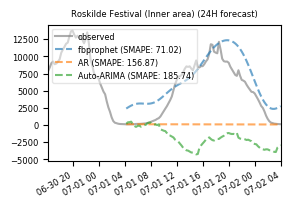
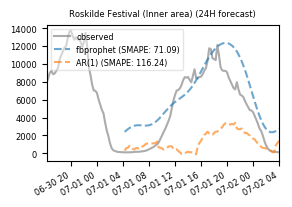
fix AR forecasting

diff --git a/ts-compare-methods.py b/ts-compare-methods.py
@@ -25,6 +25,7 @@ basepath = 'data/'
 
 hours_to_predict = 24
 slices_to_predict = hours_to_predict * 4
+global_freq = None
 
 
 def load_data(polygon):
@@ -32,23 +33,33 @@ def load_data(polygon):
     df_orig = pd.read_csv(basepath + filename_data, squeeze=True)
     # prep cols for Prophet
     df_orig = df_orig[df_orig.polygon_id == int(polygon)]
-    df_trimmed = df_orig.drop(['polygon_id'], axis=1)
-    df_trimmed.columns = ['y', 'ds']
+    df_fbprophet = df_orig.drop(['polygon_id'], axis=1)
+    df_fbprophet.columns = ['y', 'ds']
     # set date range
-    df_trimmed.ds = pd.to_datetime(df_trimmed.ds, infer_datetime_format=True)
-    df_trimmed = df_trimmed[(df_trimmed.ds >= startdate) & (df_trimmed.ds <= enddate)]
-    df_trimmed = df_trimmed.set_index(df_trimmed.ds)
+    df_fbprophet.ds = pd.to_datetime(df_fbprophet.ds, infer_datetime_format=True)
+    df_fbprophet = df_fbprophet[(df_fbprophet.ds >= startdate) & (df_fbprophet.ds <= enddate)]
+    # reindex for Series conversion
+    # set new index
+    df_reindexed = df_fbprophet.set_index(df_fbprophet.ds)
+    # remove duplicate indices
+    df_reindexed = df_reindexed[~df_reindexed.index.duplicated(keep='first')] # print(df_fbprophet[df_fbprophet.index.duplicated()])
+    # rename index
+    df_reindexed = df_reindexed.drop(['ds'], axis=1)
+    df_reindexed.index.rename('ds', inplace=True)
+    # set frequency
+    df_reindexed = df_reindexed.asfreq(freq='15min')
+    global_freq = df_reindexed.index.freq
+    print(global_freq)
     # transform values to float and create Series
-    series = df_trimmed.drop(['ds'], axis=1)
-    vals = series.values
+    vals = df_reindexed.values
     vals = [float(i) for i in vals]
-    idx = series.index
+    idx = df_reindexed.index
     series_all = pd.Series(vals, idx)
-    print('Series frequency: %s' % str(series_all.index.freq))
+    series_all.asfreq(freq='15min')
     # split into horizon (test data) and 3*horizon (train data) to make comparable to fbprophet
     split_point = len(series_all) - slices_to_predict
     series_train, series_test = series_all[:split_point], series_all[split_point:]
-    return series_all, series_train, series_test, df_trimmed
+    return series_all, series_train, series_test, df_fbprophet
 
 
 # calculate MAPE (timeseries evaluation metric)
@@ -87,14 +98,15 @@ def checkAC():
 
 
 # calculate AR Model
-def calc_AR(series_train):
+def calc_AR(series_train, series_test):
     model = AR(series_train)
     model_fit = model.fit()
-    print('Lag: %s' % model_fit.k_ar)
+    print('Optimal # of lags: %s' % model_fit.k_ar)
     print('Coefficients: %s' % model_fit.params)
     # make predictions
+    y = series_test
     yhat = model_fit.predict(start=len(series_train), end=len(series_train)+len(series_test)-1, dynamic=True)
-    return yhat
+    return y, yhat
 
 
 # calculate (S)AR-I-MA model
@@ -183,28 +195,28 @@ def calc_fbprophet(series):
 def process(polygon):
     print("Predicting polygon %s - started at %s" % (str(polygon), str(datetime.now())))
     series_all, series_train, series_test, df_all = load_data(polygon)
-
-    # output size
+    # output size (must be up here)
     pyplot.figure(figsize=(3, 2))
+
     # calculate all models
+    # calc AR model
+    AR_y, AR_yhat = calc_AR(series_train, series_test)
+    smape_AR = SMAPE(AR_y, AR_yhat)
+    AR_yhat.plot(color='green', linestyle='--', alpha=0.65, linewidth=1.5, label='AR (SMAPE: {:.2f})'.format(smape_AR))
+
     # calc fbprophet
     df_fbprophet = calc_fbprophet(df_all)
     fbprophet_yhat = df_fbprophet.yhat[len(df_fbprophet) - slices_to_predict:]
     smape_fbprophet = SMAPE(df_fbprophet.y[len(df_fbprophet) - slices_to_predict:], fbprophet_yhat)
     df_fbprophet.y.plot(color='grey', alpha=0.65, label='observed')     # plot observed data
-    fbprophet_yhat.plot(linestyle='--', alpha=0.65, linewidth=1.5, label='fbprophet (SMAPE: {:.2f})'.format(smape_fbprophet))       # plot predicted
-
-    # calc AR model
-    df_AR = calc_AR(series_train)
-    smape_AR = SMAPE(series_test, df_AR.yhat)
-    df_AR.yhat.plot(linestyle='--', alpha=0.65, linewidth=1.5, label='AR (SMAPE: {:.2f})'.format(smape_AR))
+    fbprophet_yhat.plot(color='blue', linestyle='--', alpha=0.65, linewidth=1.5, label='fbprophet (SMAPE: {:.2f})'.format(smape_fbprophet))       # plot predicted
 
     # calc Auto.ARIMA
     smape_autoSARIMA = 0
     if autoARIMA:
         df_autoSARIMA = calc_autoSARIMA(series_all)
         smape_autoSARIMA = SMAPE(df_autoSARIMA.y, df_autoSARIMA.yhat)
-        df_autoSARIMA.yhat.plot(linestyle='--', alpha=0.65, linewidth=1.5, label='Auto-ARIMA (SMAPE: {:.2f})'.format(smape_autoSARIMA))
+        df_autoSARIMA.yhat.plot(color='red', linestyle='--', alpha=0.65, linewidth=1.5, label='Auto-ARIMA (SMAPE: {:.2f})'.format(smape_autoSARIMA))
 
     # format plot (http://matplotlib.org/users/customizing.html)
     # font size
@@ -219,7 +231,7 @@ def process(polygon):
     pyplot.title('%s (%iH forecast)' % (getname(polygon), hours_to_predict), fontsize=SMALL_SIZE)
     # plot legend and set alpha
     pyplot.legend()
-    pyplot.legend().get_frame().set_alpha(0.5)
+    #pyplot.legend().get_frame().set_alpha(0.5)
     # save img
     pyplot.savefig('img/compare/' + 'comp_pol_' + str(polygon) + '.png', bbox_inches='tight')
     #pyplot.show()
@@ -238,15 +250,20 @@ def process(polygon):
 # run stuff
 from multiprocessing import Pool
 
-polygon_list = [6, 49, 18, 5, 25, 11, 16, 10]  # Inner Area, Orange, Rising, Camping C + E, Bridge, Tradezone, Street City
 #will not work for some polys
 #df_polygons = pd.read_csv('data/2017_polygoninfo_filtered.csv', usecols=["ogr_fid"], nrows=None)
 #polygon_list = df_polygons.values.astype(int).flatten()
+polygon_list = 49
+polygon_list = [6, 49, 18, 5, 25, 11, 16, 10]  # Inner Area, Orange, Rising, Camping C + E, Bridge, Tradezone, Street City
 autoARIMA = True
 
 if __name__ == '__main__':
-    pool = Pool()
-    results = pool.map(process, polygon_list)
+    if isinstance(polygon_list, int):
+        results = []
+        process(polygon_list)
+    else:
+        pool = Pool()
+        results = pool.map(process, polygon_list)
     df_results = pd.DataFrame.from_dict(results)
     df_results = df_results.set_index('pol')
     df_results.to_csv('results/2017_SMAPE.csv')
